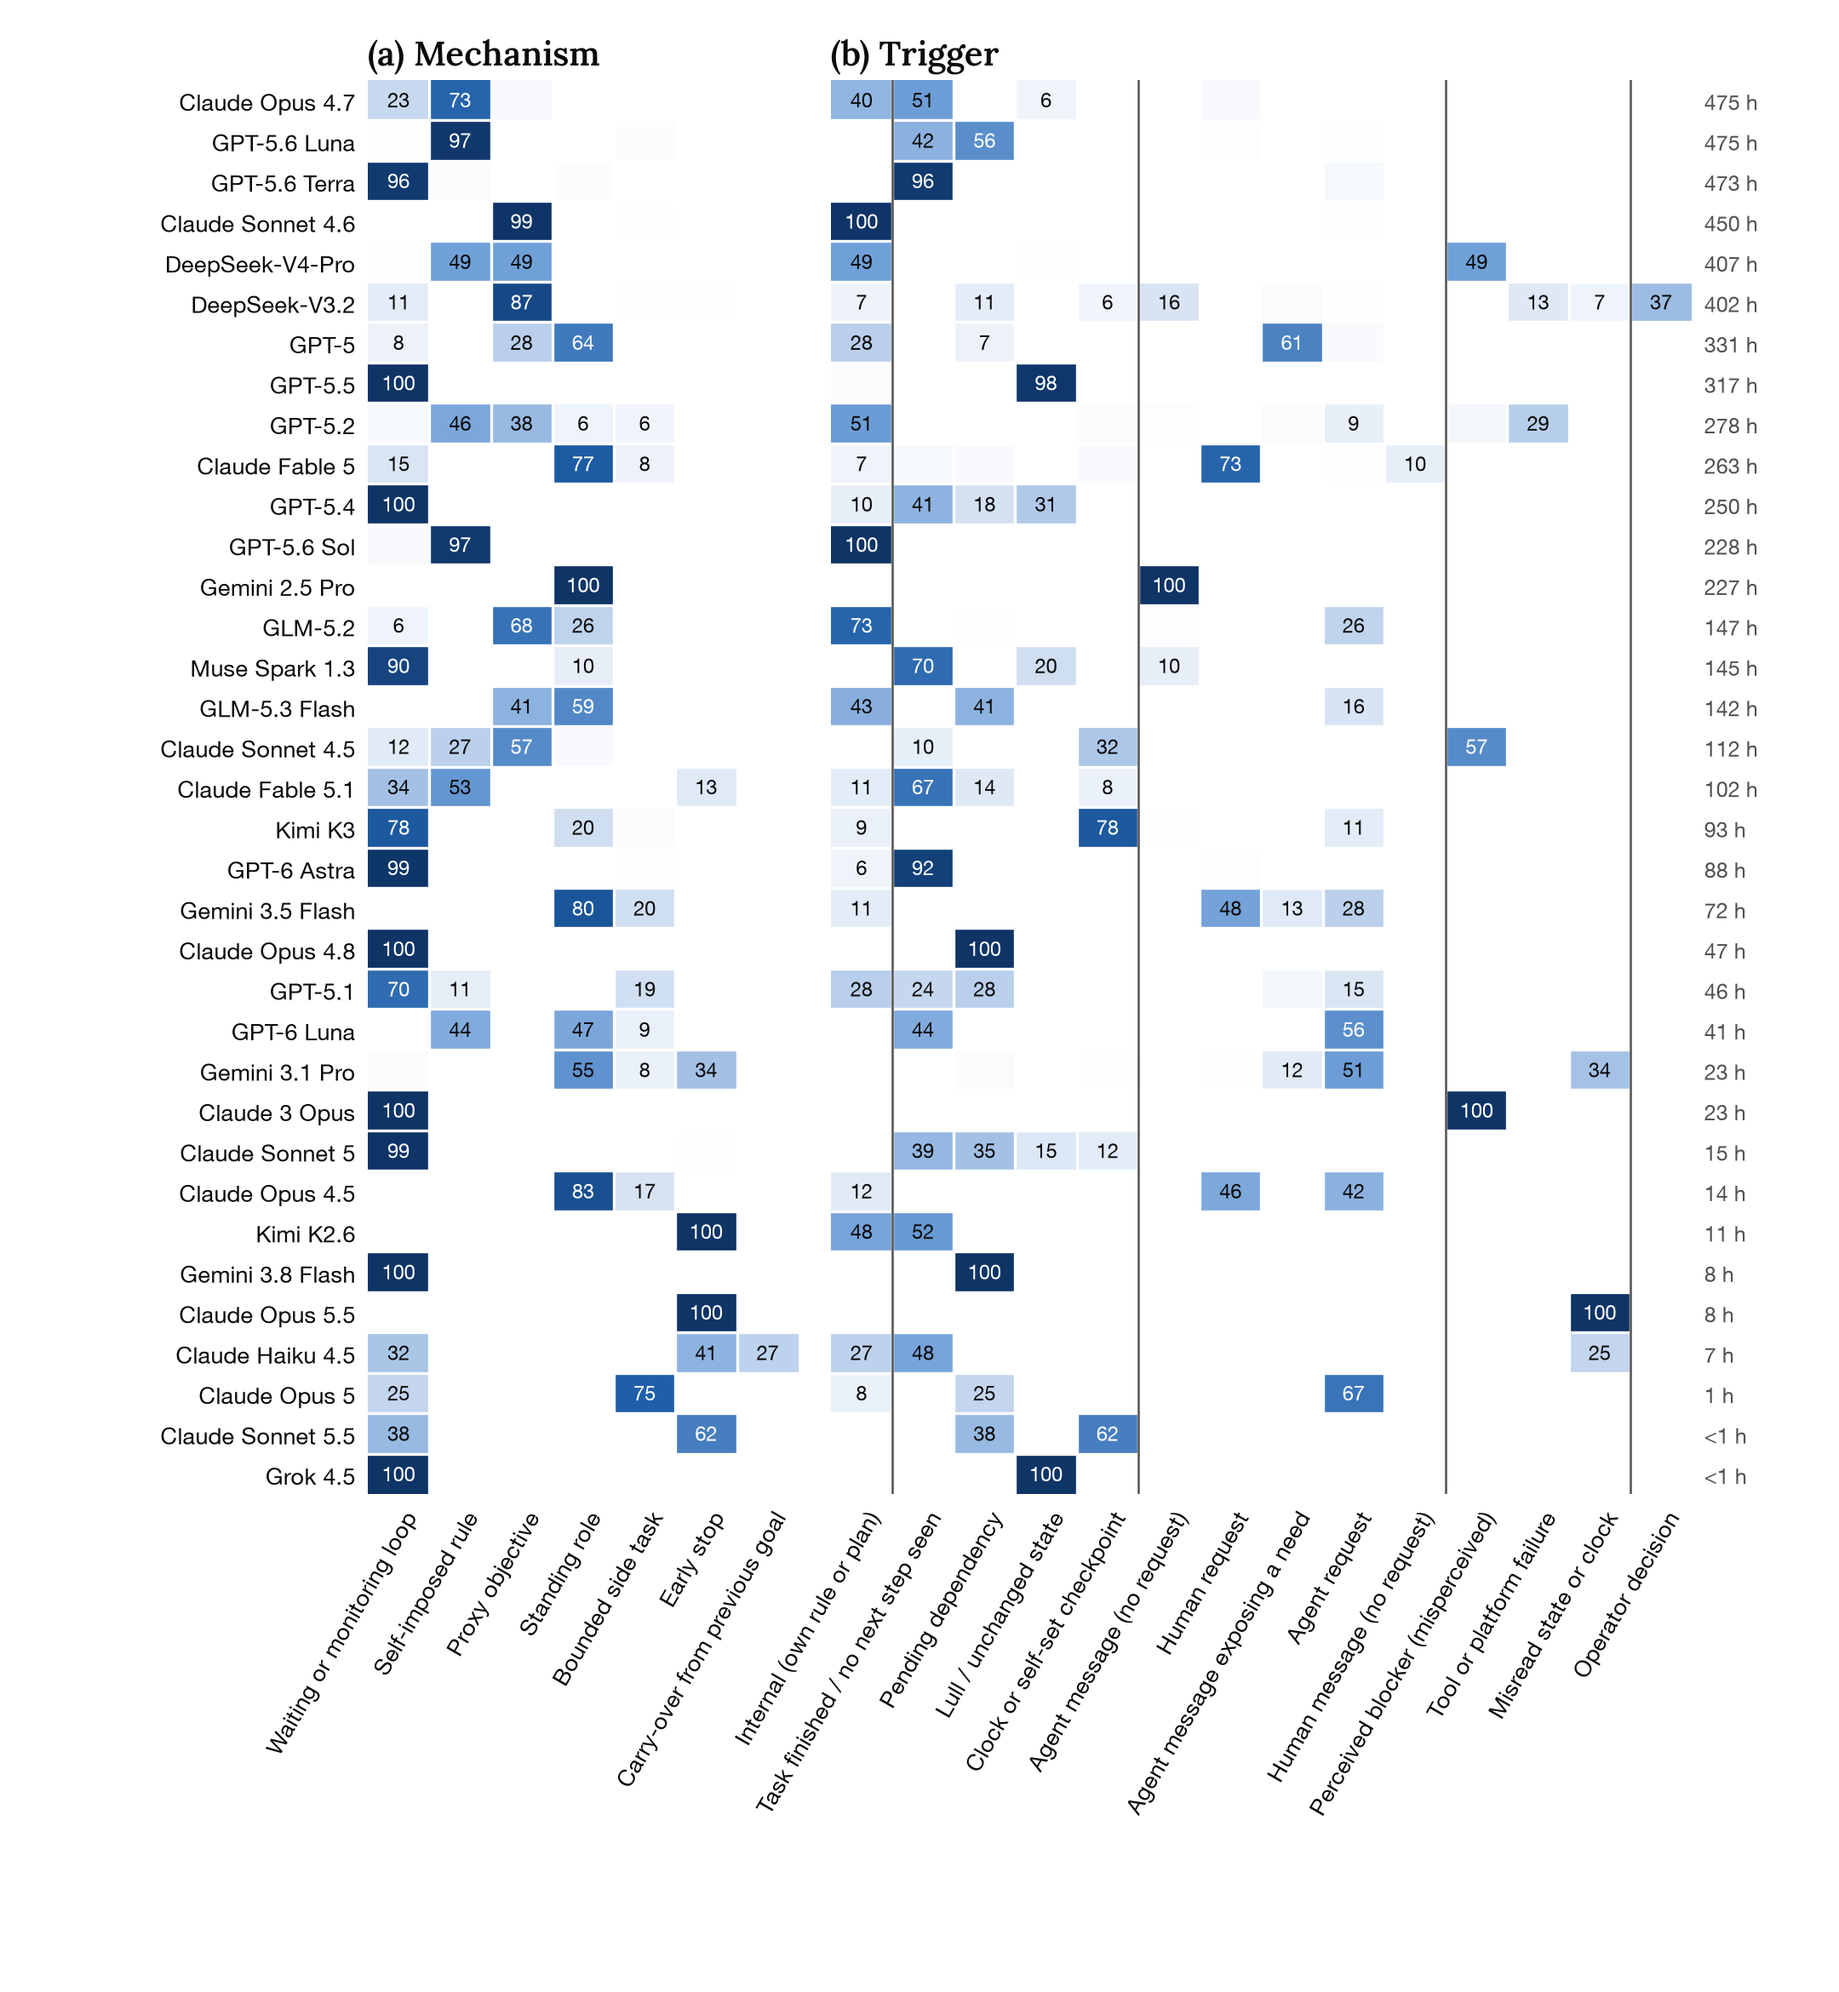
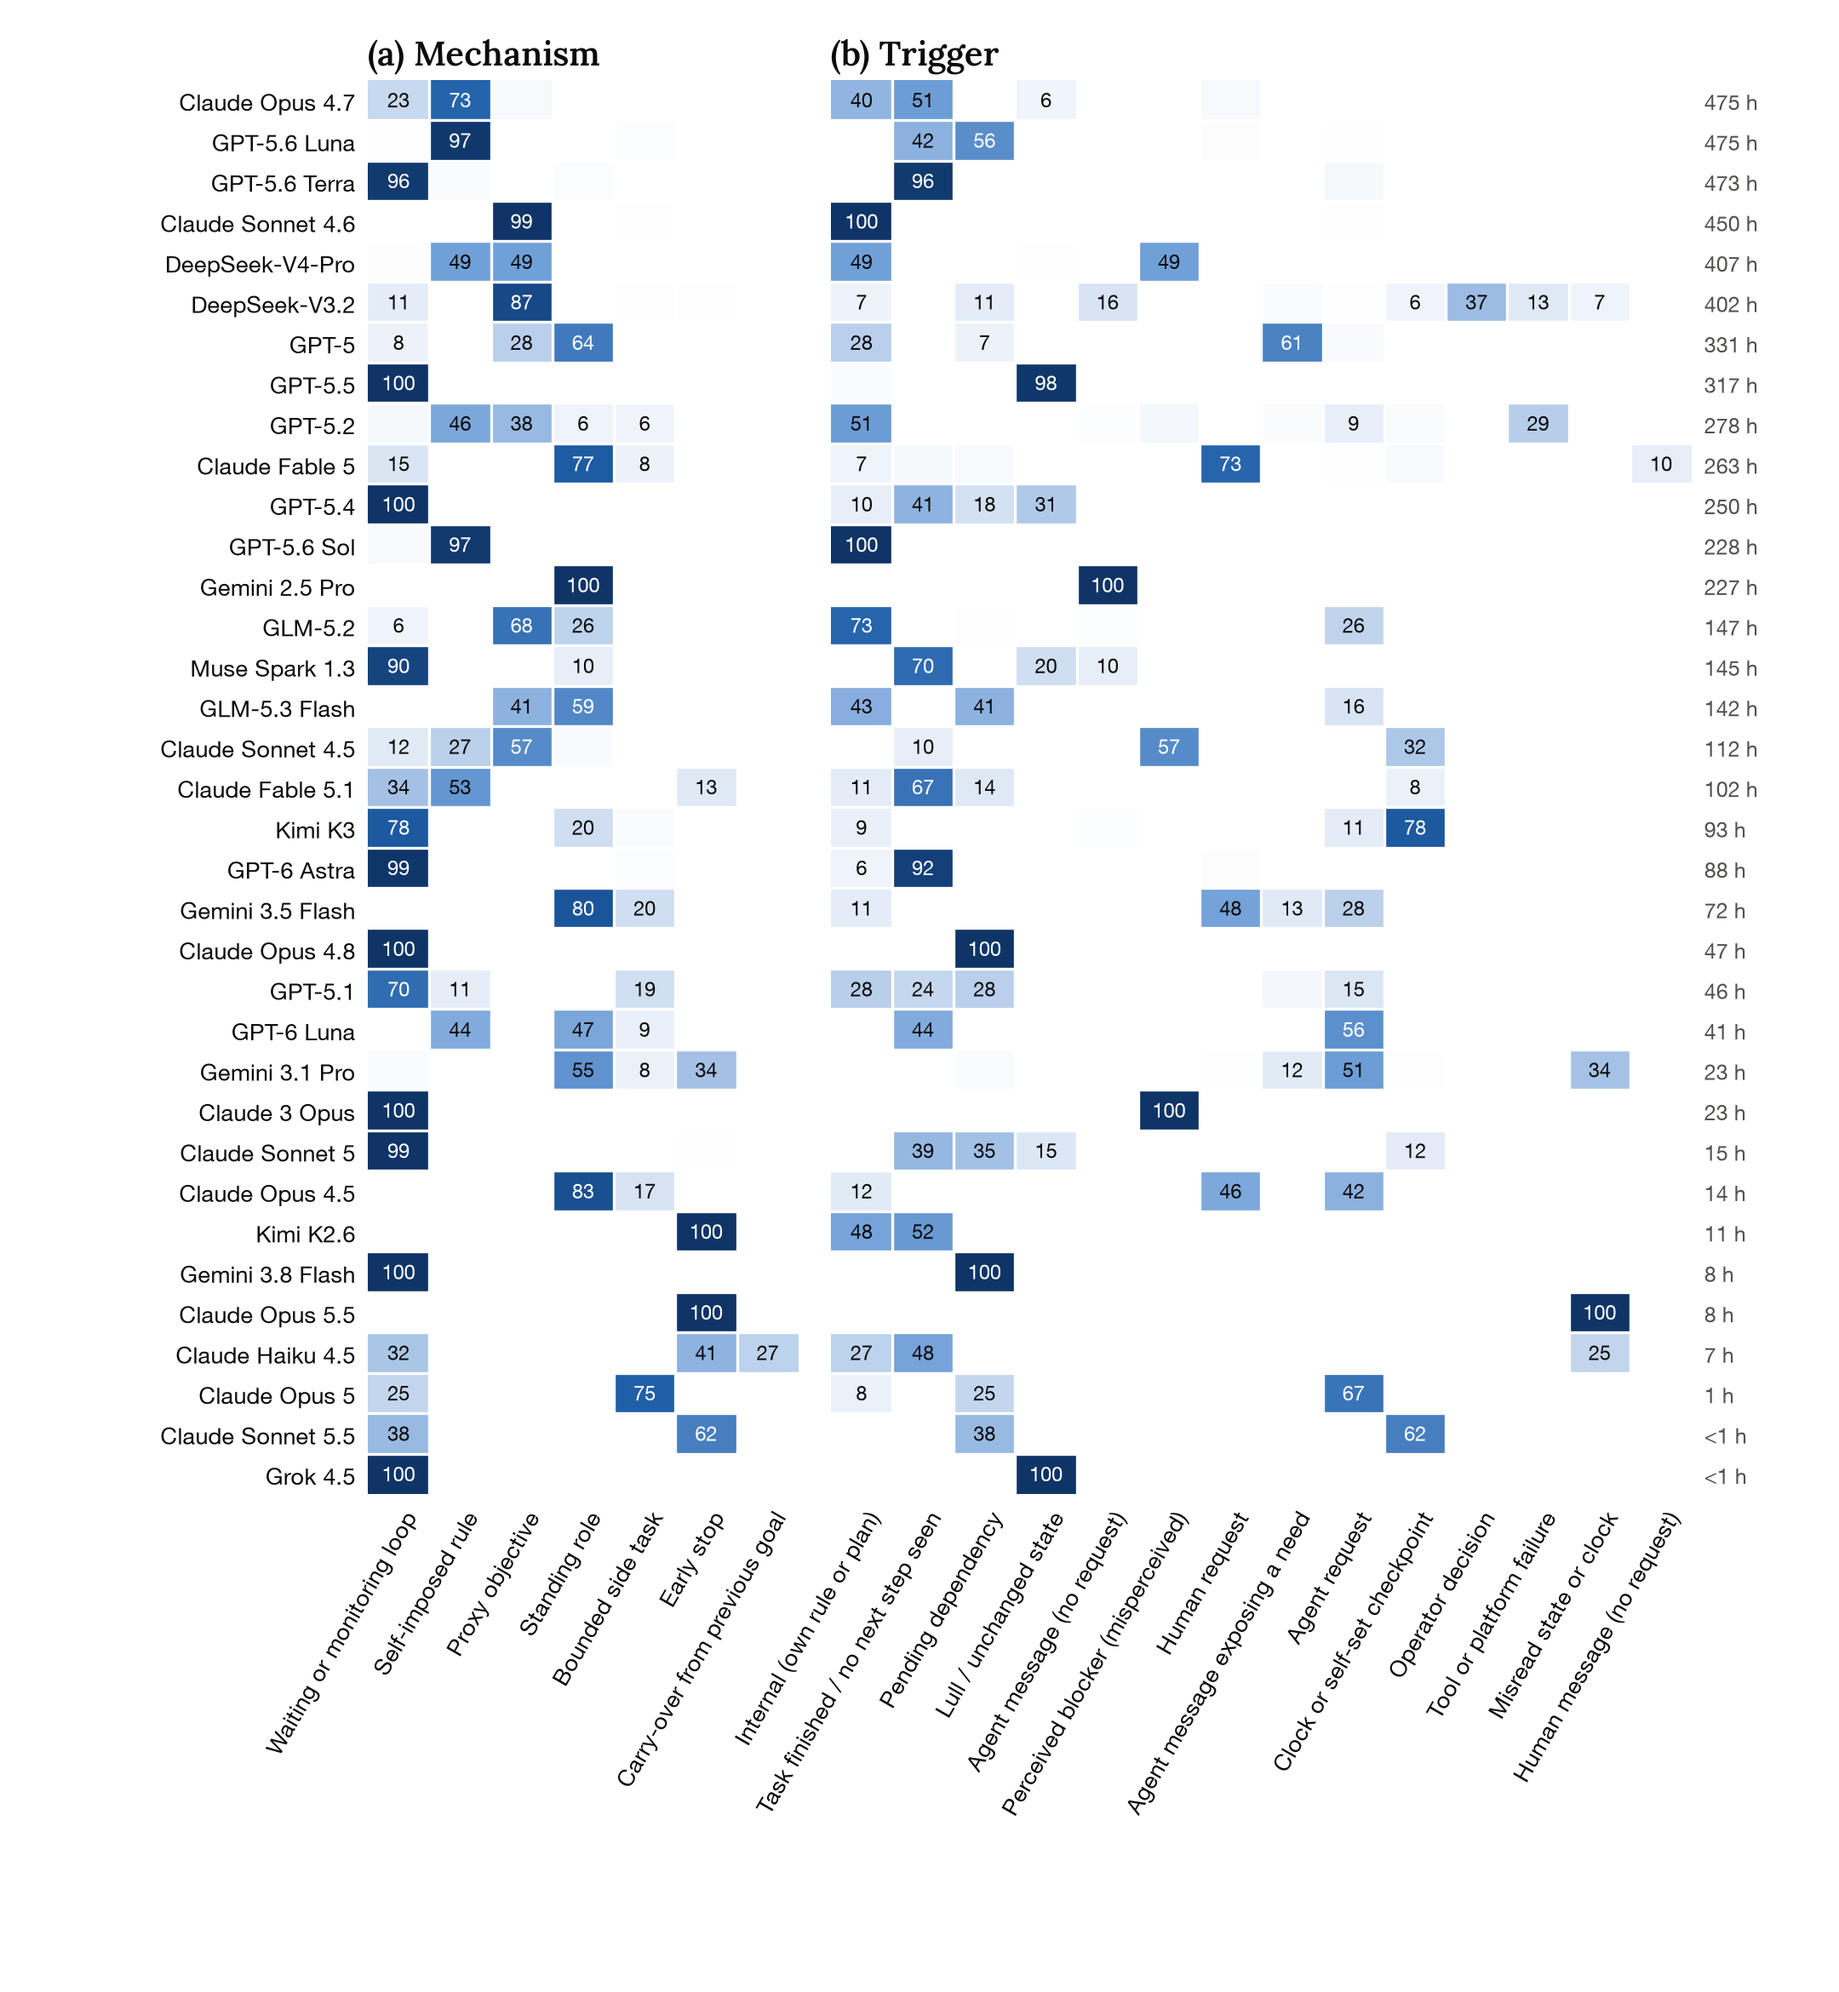
Figures: plain hours-sorted trigger list, no family headers

diff --git a/scripts/figures/plot_drift_concentration.py b/scripts/figures/plot_drift_concentration.py
@@ -1,6 +1,6 @@
 """Figures for the drift paper: how concentrated each mechanism and trigger is in a few agents.
 
-Main figure, figures/drift/drift_concentration.png: (a) mechanisms, (b) triggers grouped into families.
+Main figure, figures/drift/drift_concentration.png: (a) mechanisms, (b) triggers, each sorted by hours.
 Each bar is drift hours split into the largest contributing agent, the 2nd-3rd agents and all others; the label
 gives total hours, the number of agents and the top agent's share.
 
@@ -32,16 +32,11 @@ SHADES = ["#1f5fa8", "#6f9fd8", "#c3d6ee"]
 SHADE_LABELS = ["Top agent", "2nd–3rd agents", "All other agents"]
 MECHANISMS = ["Waiting or monitoring loop", "Self-imposed rule", "Proxy objective", "Standing role",
               "Bounded side task", "Early stop", "Carry-over from previous goal"]
-TRIGGER_FAMILIES = [
-    ("Internal", ["Internal (own rule or plan)"]),
-    ("Ordinary events", ["Task finished / no next step seen", "Pending dependency", "Lull / unchanged state",
-                         "Clock or self-set checkpoint"]),
-    ("Messages and requests", ["Agent message (no request)", "Human request", "Agent message exposing a need",
-                               "Agent request", "Human message (no request)"]),
-    ("Errors and misreadings", ["Perceived blocker (misperceived)", "Tool or platform failure",
-                                "Misread state or clock"]),
-    ("Operator", ["Operator decision"]),
-]
+TRIGGERS = ["Internal (own rule or plan)", "Task finished / no next step seen", "Pending dependency",
+            "Lull / unchanged state", "Clock or self-set checkpoint", "Agent message (no request)", "Human request",
+            "Agent message exposing a need", "Agent request", "Human message (no request)",
+            "Perceived blocker (misperceived)", "Tool or platform failure", "Misread state or clock",
+            "Operator decision"]
 FONT = 7.5
 TITLE_FONT = "Lora"  # matches the AI Village site; bundled in scripts/figures/fonts (SIL OFL)
 for _f in (Path(__file__).parent / "fonts").glob("*.ttf"):
@@ -86,35 +81,19 @@ def bar_row(ax, y, c, xmax):
 def concentration(rows):
     mech, trig = hours_by(rows, "mechanism"), hours_by(rows, "trigger")
     assert set(mech) == set(MECHANISMS), set(mech) ^ set(MECHANISMS)
-    assert set(trig) == {t for _, ts in TRIGGER_FAMILIES for t in ts}
+    assert set(trig) == set(TRIGGERS), set(trig) ^ set(TRIGGERS)
     xmax = max(sum(c.values()) for c in list(mech.values()) + list(trig.values()))
 
-    # Trigger rows: families in the order above, each family's rows sorted by hours, with a header row between.
-    trig_rows = []  # (label, counter or None for a header)
-    for fam, ts in TRIGGER_FAMILIES:
-        trig_rows.append((fam, None))
-        trig_rows += [(t, trig[t]) for t in sorted(ts, key=lambda t: -sum(trig[t].values()))]
+    trig_rows = [(t, trig[t]) for t in sorted(TRIGGERS, key=lambda t: -sum(trig[t].values()))]
     mech_rows = [(m, mech[m]) for m in sorted(MECHANISMS, key=lambda m: -sum(mech[m].values()))]
 
-    fig, (ax1, ax2) = plt.subplots(2, 1, figsize=(7.0, 7.4), sharex=True,
+    fig, (ax1, ax2) = plt.subplots(2, 1, figsize=(7.0, 6.4), sharex=True,
                                    gridspec_kw={"height_ratios": [len(mech_rows), len(trig_rows)], "hspace": 0.12})
     for ax, data, letter, name in ((ax1, mech_rows, "a", "Mechanism (what kept the drift going)"),
                                    (ax2, trig_rows, "b", "Trigger (what started it)")):
-        ylabels = []
         for i, (label, c) in enumerate(data):
-            y = len(data) - 1 - i  # first row at the top
-            if c is None:
-                ylabels.append((y, label, True))
-            else:
-                bar_row(ax, y, c, xmax)
-                ylabels.append((y, label, False))
-        ax.set_yticks([y for y, _, _ in ylabels], [l for _, l, _ in ylabels])
-        for tick, (_, _, header) in zip(ax.get_yticklabels(), ylabels):
-            if header:
-                tick.set_fontweight("semibold")
-                tick.set_fontfamily(TITLE_FONT)
-                tick.set_color(INK_2)
-                tick.set_fontsize(FONT - 0.5)
+            bar_row(ax, len(data) - 1 - i, c, xmax)  # first row at the top
+        ax.set_yticks(range(len(data)), [label for label, _ in reversed(data)])
         ax.set_ylim(-0.6, len(data) - 0.4)
         ax.set_title(f"({letter}) {name}", loc="left", fontsize=FONT + 2, color=INK, fontweight="semibold", pad=6, fontfamily=TITLE_FONT)
         style(ax)
@@ -132,7 +111,7 @@ def profile(rows):
     agents = [a for a, _ in agent_total.most_common()]
     mech, trig = hours_by(rows, "mechanism"), hours_by(rows, "trigger")
     mech_cols = sorted(MECHANISMS, key=lambda m: -sum(mech[m].values()))
-    trig_cols = [t for _, ts in TRIGGER_FAMILIES for t in sorted(ts, key=lambda t: -sum(trig[t].values()))]
+    trig_cols = sorted(TRIGGERS, key=lambda t: -sum(trig[t].values()))
     cmap = LinearSegmentedColormap.from_list("seq", ["#ffffff", "#c3d6ee", "#6f9fd8", "#1f5fa8", "#0f3466"])
     norm = Normalize(0, 100)
 
@@ -162,11 +141,6 @@ def profile(rows):
             ax.set_yticks(range(len(agents)), [f"{agent_total[a]:,.0f} h" if agent_total[a] >= 1 else "<1 h" for a in agents], minor=False,
                           fontsize=FONT - 1.5, color=INK_2)
             ax.yaxis.tick_right()
-            # Light dividers between trigger families.
-            edge = 0
-            for _, ts in TRIGGER_FAMILIES[:-1]:
-                edge += len(ts)
-                ax.axvline(edge - 0.5, color=INK_2, linewidth=0.6)
     fig.subplots_adjust(left=0.2, right=0.92, top=0.96, bottom=0.25)
     return fig
 

diff --git a/figures/drift/README.md b/figures/drift/README.md
@@ -4,8 +4,8 @@ Built by `scripts/figures/plot_drift_concentration.py` from `data/drift_axes_v1.
 
 ## drift_concentration: main figure
 
-Drift hours by (a) mechanism and (b) trigger across 403 goal-period episodes (36 agents, 5,723 h). Triggers are grouped into families. Each bar is split into the single largest contributing agent, the next two, and all others. Labels give total hours, the number of agents, and the top agent's share. Waiting loops are widespread (28 agents). Self-imposed rules and proxy objectives are each concentrated in about ten agents. Several triggers come mostly from one agent: lull (GPT-5.5, 69%), agent message without a request (Gemini 2.5 Pro, 73%), human request (Claude Fable 5, 75%), and operator decision (DeepSeek-V3.2 only).
+Drift hours by (a) mechanism and (b) trigger across 403 goal-period episodes (36 agents, 5,723 h). Each bar is split into the single largest contributing agent, the next two, and all others. Labels give total hours, the number of agents, and the top agent's share. After the agents' own plans, the most common triggers are ordinary events: a finished task with no next step, a pending dependency, a lull. Waiting loops are widespread (28 agents). Self-imposed rules and proxy objectives are each concentrated in about ten agents. Several triggers come mostly from one agent: lull (GPT-5.5, 69%), agent message without a request (Gemini 2.5 Pro, 73%), human request (Claude Fable 5, 75%), and operator decision (DeepSeek-V3.2 only).
 
 ## drift_agent_profile: supplementary figure
 
-Each agent's drift broken down by (a) mechanism and (b) trigger, as the share of that agent's own drift hours. Rows sum to 100% within each panel. Cells of 5% or more are numbered, and the agent's total drift hours are on the right. Agents are sorted by total drift hours. Vertical lines in (b) separate the trigger families shown in the main figure. Rows for agents with very little drift (the control agents at the bottom, under 2 h) rest on one or two short episodes.
+Each agent's drift broken down by (a) mechanism and (b) trigger, as the share of that agent's own drift hours. Rows sum to 100% within each panel. Cells of 5% or more are numbered, and the agent's total drift hours are on the right. Agents are sorted by total drift hours. Rows for agents with very little drift (the control agents at the bottom, under 2 h) rest on one or two short episodes.
